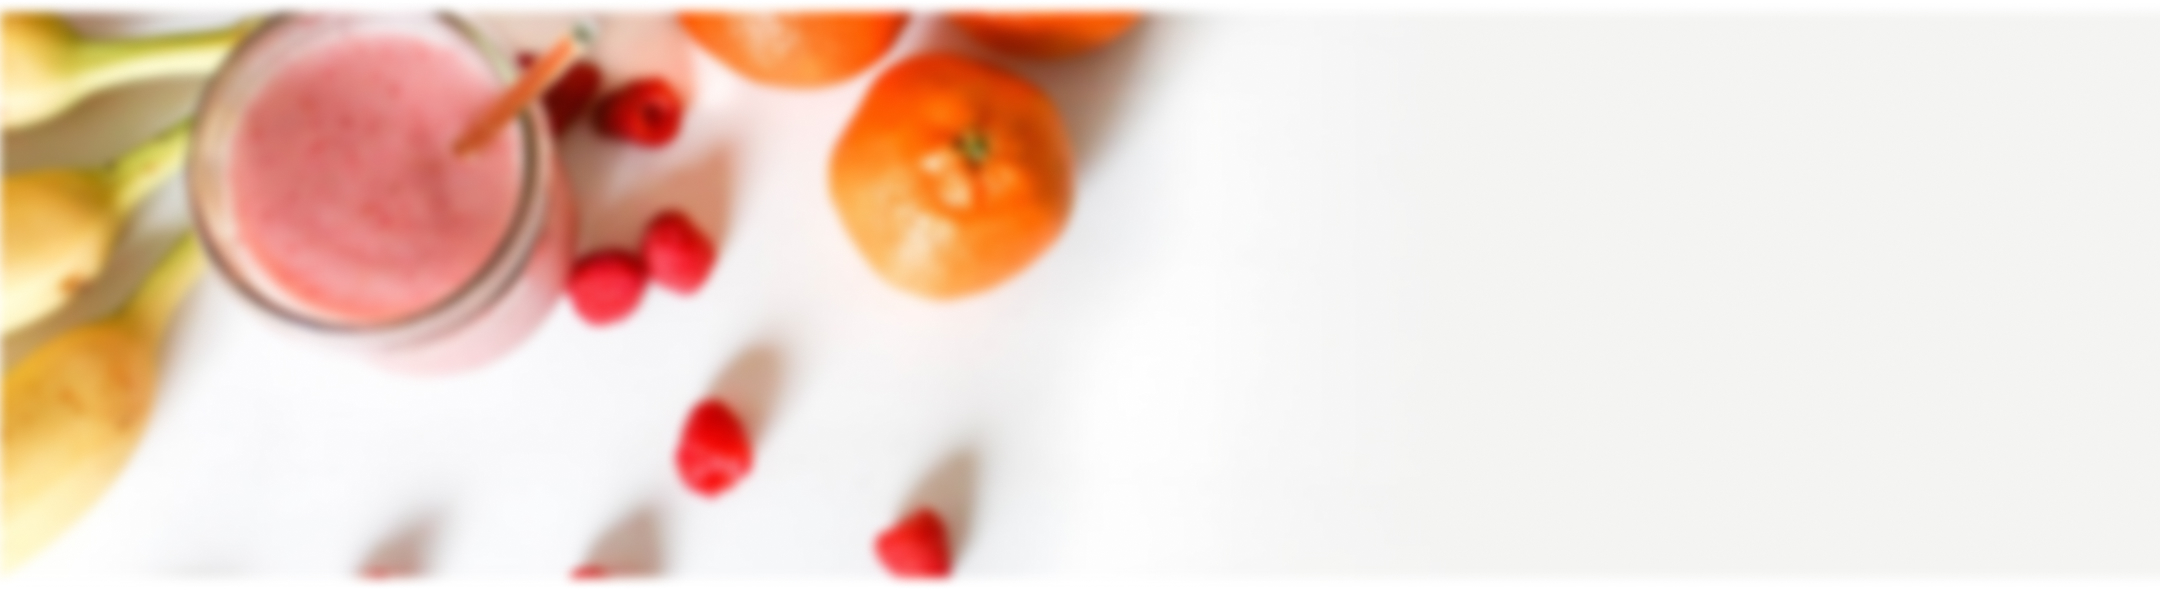
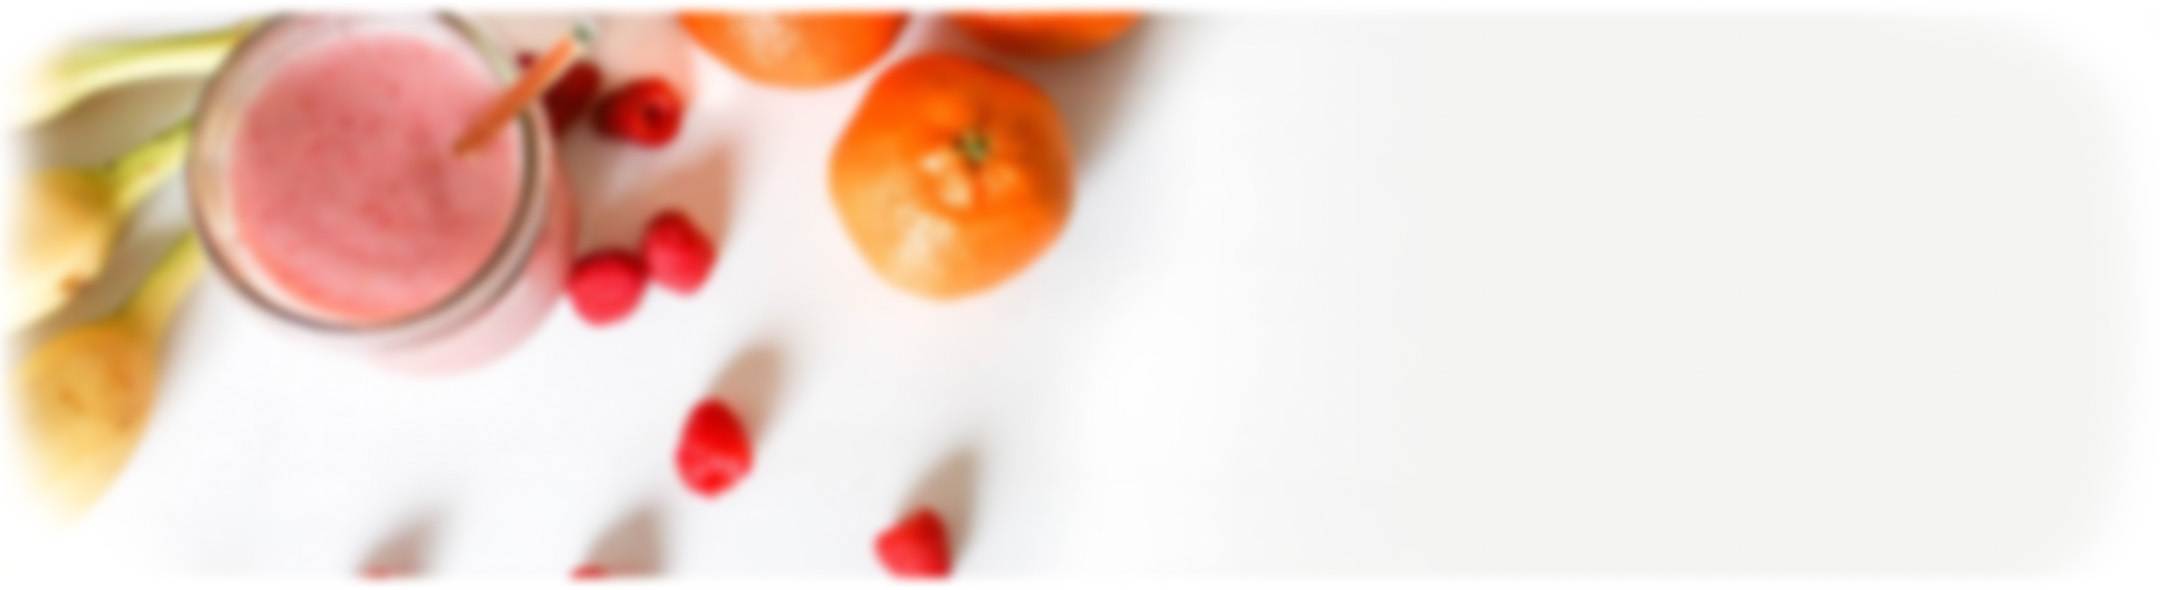
bc fix

Changed region(s): [[0.0, 0.0, 0.1241, 0.9763], [0.1241, 0.0, 0.1551, 0.0305]]

diff --git a/css/styles.css b/css/styles.css
@@ -384,7 +384,7 @@ table {
     background-size: cover;
     background-repeat: no-repeat;
 
-    /* border-radius: 55px; */
+    border-radius: 55px;
 }
 
 .wrapper-consultation-form{
